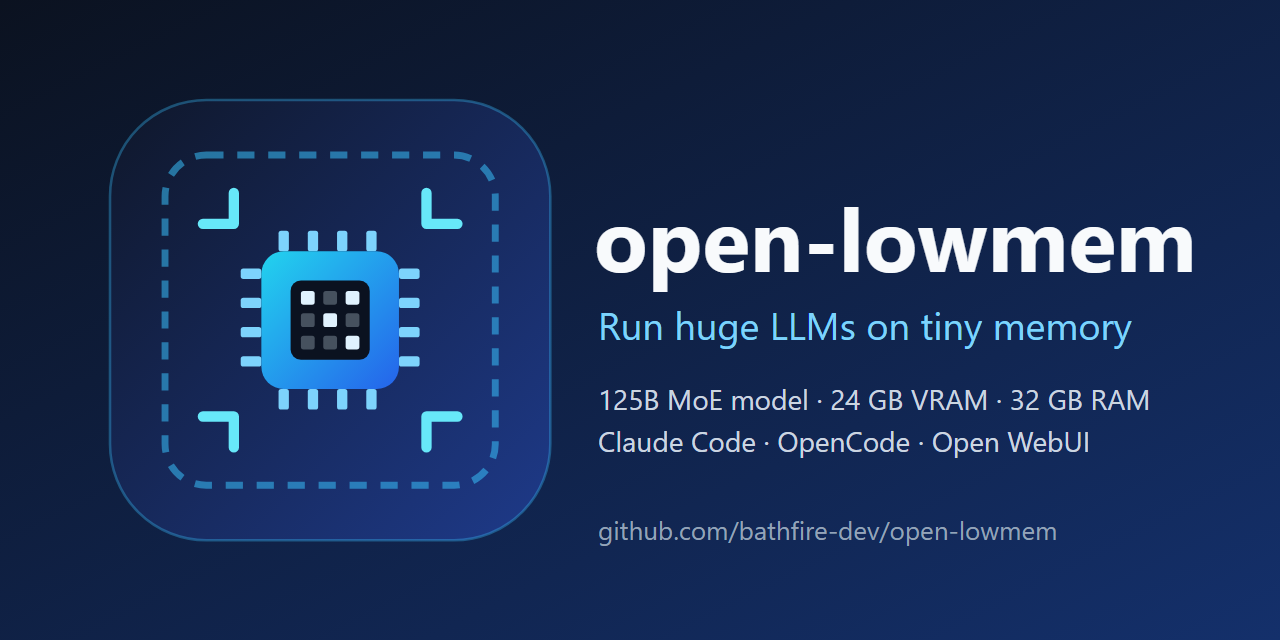
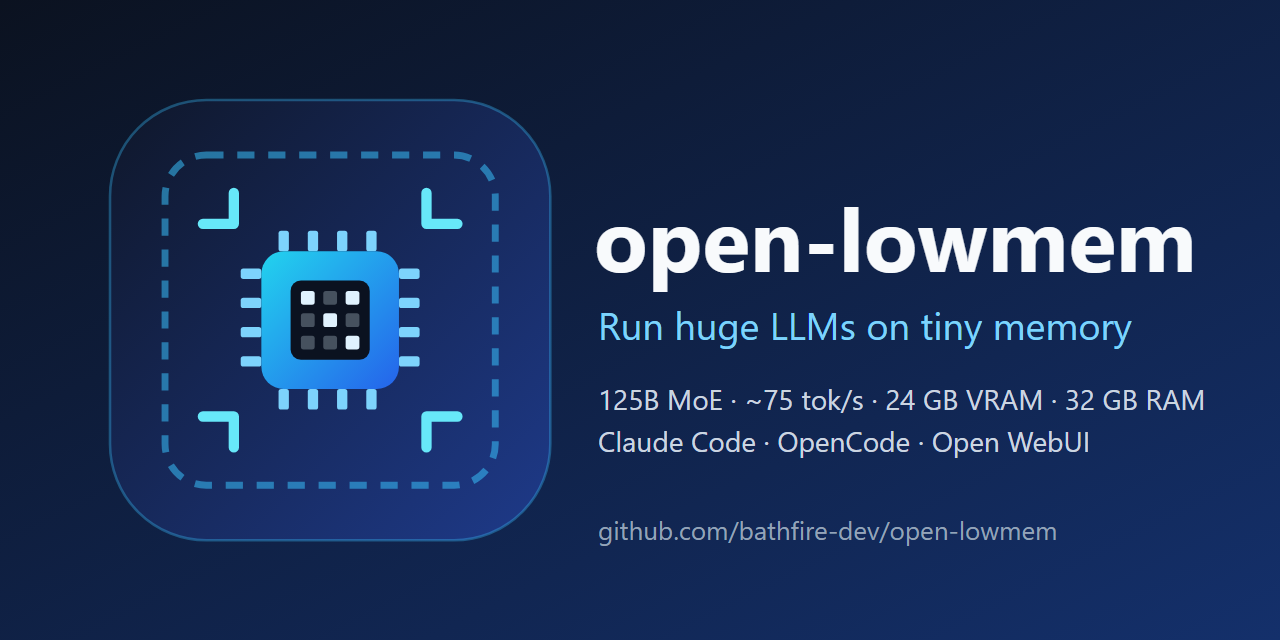
Add measured speed (~75 tokens/s on RTX 4090D 24GB + 32GB RAM) to titles and docs

Changed region(s): [[0.5625, 0.5938, 0.9375, 0.6562]]

diff --git a/README.ru.md b/README.ru.md
@@ -1,6 +1,6 @@
 <p align="center"><img src="docs/banner.png" alt="open-lowmem: огромные LLM на малом объёме памяти" width="720"></p>
 
-# open-lowmem: запуск LLM на 125 млрд параметров на видеокарте 24 ГБ и 32 ГБ ОЗУ (Windows)
+# open-lowmem: запуск LLM на 125 млрд параметров со скоростью ~75 токенов/с на видеокарте 24 ГБ и 32 ГБ ОЗУ (Windows)
 
 [English](README.md) | [简体中文](README.zh-CN.md) | [繁體中文](README.zh-TW.md) | [日本語](README.ja.md) | [한국어](README.ko.md) | [Español](README.es.md) | [Français](README.fr.md) | [Deutsch](README.de.md) | [Русский](README.ru.md) | [Português](README.pt-BR.md)
 
@@ -15,6 +15,10 @@
 `open-lowmem` — набор небольших лаунчеров на Go для Windows. Каждый сначала запускает локальный движок инференса [Strata](https://github.com/Niko1221/Strata). Он распределяет работу между видеопамятью GPU, оперативной памятью и SSD, и модель типа «смесь экспертов» на 125 млрд параметров помещается в обычный игровой ПК. Затем лаунчер запускает выбранный клиент и всё убирает за собой при закрытии окна.
 
 Ключевые слова: локальная LLM, мало VRAM, малый объём памяти, большие языковые модели на GPU 24 ГБ, MoE, квантизация (IQ2_XS), Qwen3.8-Flash-Next, Strata, Claude Code с локальной моделью, OpenCode, офлайн-помощник по программированию на ИИ, RTX 4090, Windows.
+
+## Измеренная скорость
+
+Измерено на машине разработчика этого репозитория (RTX 4090D 24 ГБ, 32 ГБ ОЗУ, IQ2_XS, Windows, 7 октября 2026): 8 запусков по 512 сгенерированных токенов дали **от 62 до 94 токенов/с, медиана около 77**. Один запрос за раз, короткий промпт. Ваша скорость зависит от длины контекста, фоновой нагрузки и размера модели.
 
 ## Сколько нужно памяти?
 

diff --git a/README.fr.md b/README.fr.md
@@ -1,6 +1,6 @@
 <p align="center"><img src="docs/banner.png" alt="open-lowmem : faire tourner d'énormes LLM avec très peu de mémoire" width="720"></p>
 
-# open-lowmem : faire tourner un LLM de 125 Md de paramètres sur un GPU de 24 Go et 32 Go de RAM (Windows)
+# open-lowmem : faire tourner un LLM de 125 Md de paramètres à ~75 tokens/s sur un GPU de 24 Go et 32 Go de RAM (Windows)
 
 [English](README.md) | [简体中文](README.zh-CN.md) | [繁體中文](README.zh-TW.md) | [日本語](README.ja.md) | [한국어](README.ko.md) | [Español](README.es.md) | [Français](README.fr.md) | [Deutsch](README.de.md) | [Русский](README.ru.md) | [Português](README.pt-BR.md)
 
@@ -15,6 +15,10 @@ Auteur : **廖亦辰 (Liao Yichen)** · Xiamen, Chine · GitHub [@bathfire-dev](
 `open-lowmem` est un ensemble de petits lanceurs Go pour Windows. Chacun démarre d'abord le moteur d'inférence local [Strata](https://github.com/Niko1221/Strata), qui permet à un modèle à mélange d'experts de 125 Md de paramètres de tenir dans un PC de jeu ordinaire en répartissant le travail entre la VRAM du GPU, la RAM du système et le SSD. Le lanceur démarre ensuite le client choisi et nettoie tout à la fermeture de la fenêtre.
 
 Mots-clés : LLM local, peu de VRAM, faible mémoire, exécuter de grands modèles de langage sur un GPU de 24 Go, MoE, quantification (IQ2_XS), Qwen3.8-Flash-Next, Strata, Claude Code avec un modèle local, OpenCode, assistant de programmation IA hors ligne, RTX 4090, Windows.
+
+## Vitesse mesurée
+
+Mesurée sur la machine de développement de ce dépôt (RTX 4090D 24 Go, 32 Go de RAM, IQ2_XS, Windows, 7 octobre 2026) : 8 exécutions de 512 tokens générés ont donné **entre 62 et 94 tokens/s, avec une médiane d'environ 77**. Une requête à la fois, prompt court. Votre vitesse variera selon la longueur du contexte, la charge en arrière-plan et la taille du modèle.
 
 ## De combien de mémoire a-t-on besoin ?
 

diff --git a/README.ja.md b/README.ja.md
@@ -1,6 +1,6 @@
 <p align="center"><img src="docs/banner.png" alt="open-lowmem: 小さなメモリで巨大な LLM を動かす" width="720"></p>
 
-# open-lowmem: VRAM 24 GB + RAM 32 GB で 1250 億パラメータの LLM を動かす（Windows）
+# open-lowmem: VRAM 24 GB + RAM 32 GB で 1250 億パラメータの LLM を実測約 75 tokens/s で動かす（Windows）
 
 [English](README.md) | [简体中文](README.zh-CN.md) | [繁體中文](README.zh-TW.md) | [日本語](README.ja.md) | [한국어](README.ko.md) | [Español](README.es.md) | [Français](README.fr.md) | [Deutsch](README.de.md) | [Русский](README.ru.md) | [Português](README.pt-BR.md)
 
@@ -15,6 +15,10 @@
 `open-lowmem` は Go で書かれた Windows 用の小さなランチャー集です。どれも最初にローカル推論エンジン [Strata](https://github.com/Niko1221/Strata) を起動します。Strata は GPU の VRAM、システム RAM、SSD で処理を分担し、1250 億パラメータの Mixture-of-Experts モデルを一般的なゲーミング PC に収めます。そのあと選んだクライアントを起動し、ウィンドウを閉じるとすべてのプロセスを片付けます。
 
 キーワード: ローカル LLM、低 VRAM、低メモリ、24 GB GPU で大規模言語モデル、MoE、量子化（IQ2_XS）、Qwen3.8-Flash-Next、Strata、Claude Code をローカルモデルで使う、OpenCode、オフライン AI コーディング、RTX 4090、Windows。
+
+## 実測速度
+
+このリポジトリの開発マシン（RTX 4090D 24 GB、RAM 32 GB、IQ2_XS、Windows、2026 年 10 月 7 日）での実測です。512 トークンの生成を 8 回計測し、**62〜94 tokens/s、中央値は約 77** でした。リクエストは 1 つずつ、プロンプトは短いものです。実際の速度はコンテキスト長、バックグラウンドの負荷、モデルサイズで変わります。
 
 ## 必要なメモリは？
 

diff --git a/README.es.md b/README.es.md
@@ -1,6 +1,6 @@
 <p align="center"><img src="docs/banner.png" alt="open-lowmem: ejecuta LLM enormes con muy poca memoria" width="720"></p>
 
-# open-lowmem: ejecuta un LLM de 125B en una GPU de 24 GB y 32 GB de RAM (Windows)
+# open-lowmem: ejecuta un LLM de 125B a ~75 tokens/s en una GPU de 24 GB y 32 GB de RAM (Windows)
 
 [English](README.md) | [简体中文](README.zh-CN.md) | [繁體中文](README.zh-TW.md) | [日本語](README.ja.md) | [한국어](README.ko.md) | [Español](README.es.md) | [Français](README.fr.md) | [Deutsch](README.de.md) | [Русский](README.ru.md) | [Português](README.pt-BR.md)
 
@@ -15,6 +15,10 @@ Autor: **廖亦辰 (Liao Yichen)** · Xiamen, China · GitHub [@bathfire-dev](ht
 `open-lowmem` es un conjunto de pequeños lanzadores en Go para Windows. Cada uno arranca primero el motor de inferencia local [Strata](https://github.com/Niko1221/Strata), que hace que un modelo de mezcla de expertos de 125B parámetros quepa en un PC gamer normal repartiendo el trabajo entre la VRAM de la GPU, la RAM del sistema y el SSD. Después lanza el cliente que elijas y lo limpia todo al cerrar la ventana.
 
 Palabras clave: LLM local, poca VRAM, poca memoria, ejecutar modelos de lenguaje grandes en una GPU de 24 GB, MoE, cuantización (IQ2_XS), Qwen3.8-Flash-Next, Strata, Claude Code con un modelo local, OpenCode, asistente de programación con IA sin conexión, RTX 4090, Windows.
+
+## Velocidad medida
+
+Medida en la máquina de desarrollo de este repositorio (RTX 4090D de 24 GB, 32 GB de RAM, IQ2_XS, Windows, 7 de octubre de 2026): 8 ejecuciones de 512 tokens generados dieron **entre 62 y 94 tokens/s, con una mediana de unos 77**. Una petición cada vez y un prompt corto. Tu velocidad variará según la longitud del contexto, la carga en segundo plano y el tamaño del modelo.
 
 ## ¿Cuánta memoria necesita?
 

diff --git a/README.pt-BR.md b/README.pt-BR.md
@@ -1,6 +1,6 @@
 <p align="center"><img src="docs/banner.png" alt="open-lowmem: rode LLMs enormes com pouca memória" width="720"></p>
 
-# open-lowmem: rode um LLM de 125B em uma GPU de 24 GB e 32 GB de RAM (Windows)
+# open-lowmem: rode um LLM de 125B a ~75 tokens/s em uma GPU de 24 GB e 32 GB de RAM (Windows)
 
 [English](README.md) | [简体中文](README.zh-CN.md) | [繁體中文](README.zh-TW.md) | [日本語](README.ja.md) | [한국어](README.ko.md) | [Español](README.es.md) | [Français](README.fr.md) | [Deutsch](README.de.md) | [Русский](README.ru.md) | [Português](README.pt-BR.md)
 
@@ -15,6 +15,10 @@ Autor: **廖亦辰 (Liao Yichen)** · Xiamen, China · GitHub [@bathfire-dev](ht
 `open-lowmem` é um conjunto de pequenos inicializadores em Go para Windows. Cada um inicia primeiro o motor de inferência local [Strata](https://github.com/Niko1221/Strata), que faz um modelo de mistura de especialistas de 125B parâmetros caber em um PC gamer comum, dividindo o trabalho entre a VRAM da GPU, a RAM do sistema e o SSD. Depois o inicializador abre o cliente escolhido e limpa tudo quando você fecha a janela.
 
 Palavras-chave: LLM local, pouca VRAM, pouca memória, rodar modelos de linguagem grandes em GPU de 24 GB, MoE, quantização (IQ2_XS), Qwen3.8-Flash-Next, Strata, Claude Code com modelo local, OpenCode, assistente de programação com IA offline, RTX 4090, Windows.
+
+## Velocidade medida
+
+Medida na máquina de desenvolvimento deste repositório (RTX 4090D de 24 GB, 32 GB de RAM, IQ2_XS, Windows, 7 de outubro de 2026): 8 execuções de 512 tokens gerados deram **entre 62 e 94 tokens/s, com mediana de cerca de 77**. Uma requisição por vez e prompt curto. Sua velocidade varia conforme o tamanho do contexto, a carga em segundo plano e o tamanho do modelo.
 
 ## Quanta memória é necessária?
 

diff --git a/README.de.md b/README.de.md
@@ -1,6 +1,6 @@
 <p align="center"><img src="docs/banner.png" alt="open-lowmem: riesige LLMs mit winzigem Speicher ausführen" width="720"></p>
 
-# open-lowmem: ein 125-Mrd.-LLM auf einer 24-GB-GPU mit 32 GB RAM ausführen (Windows)
+# open-lowmem: ein 125-Mrd.-LLM mit ~75 Tokens/s auf einer 24-GB-GPU mit 32 GB RAM ausführen (Windows)
 
 [English](README.md) | [简体中文](README.zh-CN.md) | [繁體中文](README.zh-TW.md) | [日本語](README.ja.md) | [한국어](README.ko.md) | [Español](README.es.md) | [Français](README.fr.md) | [Deutsch](README.de.md) | [Русский](README.ru.md) | [Português](README.pt-BR.md)
 
@@ -15,6 +15,10 @@ Autor: **廖亦辰 (Liao Yichen)** · Xiamen, China · GitHub [@bathfire-dev](ht
 `open-lowmem` ist eine Sammlung kleiner Go-Starter für Windows. Jeder startet zuerst die lokale Inferenz-Engine [Strata](https://github.com/Niko1221/Strata). Sie verteilt die Arbeit auf GPU-VRAM, Arbeitsspeicher und SSD, sodass ein Mixture-of-Experts-Modell mit 125 Mrd. Parametern in einen normalen Gaming-PC passt. Danach startet der Starter den gewählten Client und räumt beim Schließen des Fensters alles auf.
 
 Schlüsselwörter: lokales LLM, wenig VRAM, geringer Speicherbedarf, große Sprachmodelle auf einer 24-GB-GPU, MoE, Quantisierung (IQ2_XS), Qwen3.8-Flash-Next, Strata, Claude Code mit lokalem Modell, OpenCode, Offline-KI-Coding-Assistent, RTX 4090, Windows.
+
+## Gemessene Geschwindigkeit
+
+Gemessen auf dem Entwicklungsrechner dieses Repositorys (RTX 4090D mit 24 GB, 32 GB RAM, IQ2_XS, Windows, 7. Oktober 2026): 8 Läufe mit je 512 erzeugten Tokens ergaben **62 bis 94 Tokens/s, Median etwa 77**. Eine Anfrage nach der anderen, kurzer Prompt. Deine Geschwindigkeit hängt von Kontextlänge, Hintergrundlast und Modellgröße ab.
 
 ## Wie viel Speicher wird benötigt?
 

diff --git a/README.ko.md b/README.ko.md
@@ -1,6 +1,6 @@
 <p align="center"><img src="docs/banner.png" alt="open-lowmem: 작은 메모리로 거대한 LLM 실행" width="720"></p>
 
-# open-lowmem: VRAM 24 GB + RAM 32 GB로 1250억 파라미터 LLM 실행하기 (Windows)
+# open-lowmem: VRAM 24 GB + RAM 32 GB로 1250억 파라미터 LLM을 실측 약 75 tokens/s로 실행 (Windows)
 
 [English](README.md) | [简体中文](README.zh-CN.md) | [繁體中文](README.zh-TW.md) | [日本語](README.ja.md) | [한국어](README.ko.md) | [Español](README.es.md) | [Français](README.fr.md) | [Deutsch](README.de.md) | [Русский](README.ru.md) | [Português](README.pt-BR.md)
 
@@ -15,6 +15,10 @@
 `open-lowmem`은 Go로 작성한 Windows용 작은 런처 모음입니다. 각 런처는 먼저 로컬 추론 엔진 [Strata](https://github.com/Niko1221/Strata)를 실행합니다. Strata는 GPU VRAM, 시스템 RAM, SSD가 작업을 나눠 맡게 해서 1250억 파라미터 혼합 전문가(MoE) 모델을 일반 게이밍 PC에 올립니다. 그다음 선택한 클라이언트를 실행하고, 창을 닫으면 모든 프로세스를 정리합니다.
 
 키워드: 로컬 LLM, 저 VRAM, 저메모리, 24 GB GPU로 대형 언어 모델 실행, MoE, 양자화(IQ2_XS), Qwen3.8-Flash-Next, Strata, 로컬 모델로 Claude Code 사용, OpenCode, 오프라인 AI 코딩 도우미, RTX 4090, Windows.
+
+## 실측 속도
+
+이 저장소의 개발 PC(RTX 4090D 24 GB, RAM 32 GB, IQ2_XS, Windows, 2026년 10월 7일)에서 측정했습니다. 512 토큰 생성을 8번 측정한 결과 **62~94 tokens/s, 중앙값 약 77**이었습니다. 요청은 한 번에 하나, 프롬프트는 짧습니다. 실제 속도는 컨텍스트 길이, 백그라운드 부하, 모델 크기에 따라 달라집니다.
 
 ## 메모리는 얼마나 필요한가요?
 

diff --git a/README.zh-TW.md b/README.zh-TW.md
@@ -1,6 +1,6 @@
 <p align="center"><img src="docs/banner.png" alt="open-lowmem：用極少的記憶體跑超大模型" width="720"></p>
 
-# open-lowmem：24GB 顯示卡 + 32GB 記憶體執行 1250 億參數大模型（Windows）
+# open-lowmem：24GB 顯示卡 + 32GB 記憶體執行 1250 億參數大模型，實測約 75 tokens/s（Windows）
 
 [English](README.md) | [简体中文](README.zh-CN.md) | [繁體中文](README.zh-TW.md) | [日本語](README.ja.md) | [한국어](README.ko.md) | [Español](README.es.md) | [Français](README.fr.md) | [Deutsch](README.de.md) | [Русский](README.ru.md) | [Português](README.pt-BR.md)
 
@@ -15,6 +15,10 @@
 `open-lowmem`（低記憶體）是一組用 Go 撰寫的 Windows 小型啟動器。每個啟動器會先啟動本機推論引擎 [Strata](https://github.com/Niko1221/Strata)，它讓顯示卡的 VRAM、系統記憶體和 SSD 分工合作，使 1250 億參數的混合專家模型能放進一般電競電腦。接著啟動你選的用戶端，關閉視窗時會自動清理所有程序。
 
 關鍵字：本機大模型、低顯存、低記憶體、24G 顯存跑大模型、MoE 混合專家、量化（IQ2_XS）、Qwen3.8-Flash-Next、Strata、Claude Code 接本機模型、OpenCode、離線 AI 程式助手、RTX 4090、Windows。
+
+## 實測速度
+
+在本專案的開發機上實測（RTX 4090D 24GB、32GB 記憶體、IQ2_XS、Windows，2026 年 10 月 7 日）：生成 512 個 token，共測 8 次，結果為 **62–94 tokens/s，中位數約 77**。一次一個請求，提示詞很短。實際速度會隨上下文長度、背景負載與模型版本而變化。
 
 ## 需要多少記憶體？
 

diff --git a/README.md b/README.md
@@ -1,6 +1,6 @@
 <p align="center"><img src="docs/banner.png" alt="open-lowmem: run huge LLMs on tiny memory" width="720"></p>
 
-# open-lowmem: run a 125B LLM on a 24 GB GPU and 32 GB RAM (Windows)
+# open-lowmem: run a 125B LLM at ~75 tokens/s on a 24 GB GPU and 32 GB RAM (Windows)
 
 [English](README.md) | [简体中文](README.zh-CN.md) | [繁體中文](README.zh-TW.md) | [日本語](README.ja.md) | [한국어](README.ko.md) | [Español](README.es.md) | [Français](README.fr.md) | [Deutsch](README.de.md) | [Русский](README.ru.md) | [Português](README.pt-BR.md)
 
@@ -15,6 +15,10 @@ Author: **廖亦辰 (Liao Yichen)** · Xiamen, China · GitHub [@bathfire-dev](h
 `open-lowmem` is a set of small Go launchers for Windows. Each one starts the local inference engine [Strata](https://github.com/Niko1221/Strata), which makes a 125B-parameter mixture-of-experts model fit into a normal gaming PC by sharing the work between GPU VRAM, system RAM and the SSD. The launcher then starts the client you picked and cleans everything up when you close it.
 
 Keywords: local LLM, low VRAM, low memory, run large language models on 24 GB GPU, MoE, quantization (IQ2_XS), Qwen3.8-Flash-Next, Strata, Claude Code with a local model, OpenCode, offline AI coding assistant, RTX 4090, Windows.
+
+## Measured speed
+
+Measured on this repo's development machine (RTX 4090D 24 GB, 32 GB RAM, IQ2_XS, Windows, 7 Oct 2026): 8 runs of 512 generated tokens gave **62-94 tokens/s, median about 77**. One request at a time, short prompt. Your speed will vary with context length, background load and model size.
 
 ## How much memory does it need?
 

diff --git a/README.zh-CN.md b/README.zh-CN.md
@@ -1,6 +1,6 @@
 <p align="center"><img src="docs/banner.png" alt="open-lowmem：用极少的内存跑超大模型" width="720"></p>
 
-# open-lowmem：24GB 显卡 + 32GB 内存运行 1250 亿参数大模型（Windows）
+# open-lowmem：24GB 显卡 + 32GB 内存运行 1250 亿参数大模型，实测约 75 tokens/s（Windows）
 
 [English](README.md) | [简体中文](README.zh-CN.md) | [繁體中文](README.zh-TW.md) | [日本語](README.ja.md) | [한국어](README.ko.md) | [Español](README.es.md) | [Français](README.fr.md) | [Deutsch](README.de.md) | [Русский](README.ru.md) | [Português](README.pt-BR.md)
 
@@ -15,6 +15,10 @@
 `open-lowmem`（低内存）是一组 Windows 小启动器，用 Go 编写。每个启动器都会先启动本地推理引擎 [Strata](https://github.com/Niko1221/Strata)，它把显存、内存和 SSD 配合起来，让 1250 亿参数的混合专家模型塞进普通游戏电脑。然后启动你选的客户端，关闭窗口时自动清理所有进程。
 
 关键词：本地大模型、低显存、低内存、24G 显存跑大模型、显存不够怎么办、MoE 混合专家、量化（IQ2_XS）、Qwen3.8-Flash-Next、Strata、Claude Code 接本地模型、OpenCode、离线 AI 编程助手、RTX 4090、Windows。
+
+## 实测速度
+
+在本仓库的开发机上实测（RTX 4090D 24GB、32GB 内存、IQ2_XS、Windows，2026 年 10 月 7 日）：生成 512 个 token，共测 8 次，结果为 **62–94 tokens/s，中位数约 77**。一次一个请求，提示词很短。实际速度会随上下文长度、后台负载和模型版本变化。
 
 ## 需要多少内存？
 
